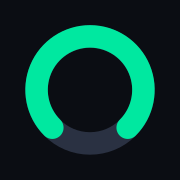
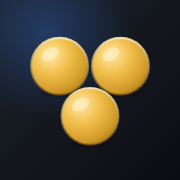
The pawnbroker's sign, instead of a green ring
The icon is the one part of the tool seen with the tool shut, and what was
there was a green gauge with nothing in it — in an accent the app stopped
using when the palette went blue, so it did not even match the thing it
opened. At 32px on a taskbar it was a green smudge among every other round
app on the row, and it said nothing about the trade.

It is the three gold balls now: hung outside Lombard money-lenders since
the Medici and still over pawn shops today. It is the one mark on a street
that means this business, it is a cluster rather than a disc so it keeps
its shape down to 16px, and gold holds its own against a light taskbar and
a dark one — which #3B82F6 does not.

- tools/make-icons.mjs draws all five from one source, so the sizes cannot
  drift apart: 512, 192, a full-bleed maskable with the art inside the
  circle Android may crop to, iOS's 180 (square, it rounds its own), and a
  32 for the tab.
- favicon.svg and favicon-32.png are new, and both pages link them. Neither
  page had a favicon at all — browsers were asking for /favicon.ico and
  getting a 404, which is why the tab corner was blank.
- The manifests' background and theme colour now match the page (#15171C);
  they were still #0B0D13, a palette ago.
- Every icon is in the service worker's cache list, so an installed copy
  keeps its face offline.
- check-screens reads the PNG headers: an icon that claims 512x512 has to
  be 512x512, a maskable one has to exist, and anything the pages link has
[…]

diff --git a/phone.html b/phone.html
@@ -1,6 +1,6 @@
 <!doctype html><html><head><meta name="apple-mobile-web-app-capable" content="yes"><meta name="mobile-web-app-capable" content="yes">
 <meta name="apple-mobile-web-app-status-bar-style" content="black-translucent"><meta name="apple-mobile-web-app-title" content="Pawn Desk">
-<link rel="manifest" href="manifest-phone.webmanifest"><link rel="apple-touch-icon" href="apple-touch-icon.png"><meta name="theme-color" content="#15171C"><link rel="stylesheet" href="phone.css">
+<link rel="manifest" href="manifest-phone.webmanifest"><link rel="icon" href="favicon.svg" type="image/svg+xml"><link rel="icon" href="favicon-32.png" sizes="32x32" type="image/png"><link rel="apple-touch-icon" href="apple-touch-icon.png"><meta name="theme-color" content="#15171C"><link rel="stylesheet" href="phone.css">
 <script src="phone.js"></script>
 <script src="app-head.js"></script>
 <meta charset=utf8><meta name=viewport content="width=device-width,initial-scale=1"><style>:root{color-scheme:dark}body{margin:0;padding:0;font:15px system-ui,-apple-system,sans-serif;background:#15171C;color:#fff}img{max-width:100%}[hidden]:not([hidden=until-found i]){display:none!important}</style></head><body>

diff --git a/sw.js b/sw.js
@@ -1,6 +1,6 @@
 /* keeps the desk working with no signal; always tries for the newest copy first */
-const C="pawndesk-202609261332";
-const CORE=["./","./index.html","./phone.html","./app-head.js","./app.css","./app.js","./qr.js","./prices.json","./fakes.json","./phone.css","./phone.js","./manifest.webmanifest","./manifest-phone.webmanifest","./icon-192.png","./icon-512.png","./apple-touch-icon.png"];
+const C="pawndesk-202609261410";
+const CORE=["./","./index.html","./phone.html","./app-head.js","./app.css","./app.js","./qr.js","./prices.json","./fakes.json","./phone.css","./phone.js","./manifest.webmanifest","./manifest-phone.webmanifest","./icon-192.png","./icon-512.png","./apple-touch-icon.png","./icon-maskable-512.png","./favicon.svg","./favicon-32.png"];
 self.addEventListener("install",e=>{ self.skipWaiting(); e.waitUntil(caches.open(C).then(c=>c.addAll(CORE))); });
 self.addEventListener("activate",e=>{ e.waitUntil(caches.keys().then(k=>Promise.all(k.filter(x=>x!==C).map(x=>caches.delete(x)))).then(()=>self.clients.claim())); });
 self.addEventListener("fetch",e=>{

diff --git a/index.html b/index.html
@@ -1,6 +1,6 @@
 <!doctype html><html><head><meta name="apple-mobile-web-app-capable" content="yes"><meta name="mobile-web-app-capable" content="yes">
 <meta name="apple-mobile-web-app-status-bar-style" content="black"><meta name="apple-mobile-web-app-title" content="Pawn Desk">
-<link rel="manifest" href="manifest.webmanifest"><link rel="apple-touch-icon" href="apple-touch-icon.png"><meta name="theme-color" content="#15171C">
+<link rel="manifest" href="manifest.webmanifest"><link rel="icon" href="favicon.svg" type="image/svg+xml"><link rel="icon" href="favicon-32.png" sizes="32x32" type="image/png"><link rel="apple-touch-icon" href="apple-touch-icon.png"><meta name="theme-color" content="#15171C">
 <script src="app-head.js"></script>
 <meta charset=utf8><meta name=viewport content="width=device-width,initial-scale=1"><style>:root{color-scheme:dark}body{margin:0;padding:0;font:15px system-ui,-apple-system,sans-serif;background:#15171C;color:#fff}img{max-width:100%}[hidden]:not([hidden=until-found i]){display:none!important}</style></head><body>
 <title>The Pawn Desk</title>

diff --git a/app.js b/app.js
@@ -7537,7 +7537,7 @@ function fakeHoldHTML(F){
    network, and where they differ the screen says so.
 
    THIS MUST BE BUMPED WITH THE CACHE NAME IN sw.js, every change. */
-const APP_BUILD="0926.1332";
+const APP_BUILD="0926.1410";
 let BUILD=APP_BUILD;
 async function readBuild(){
   try{
